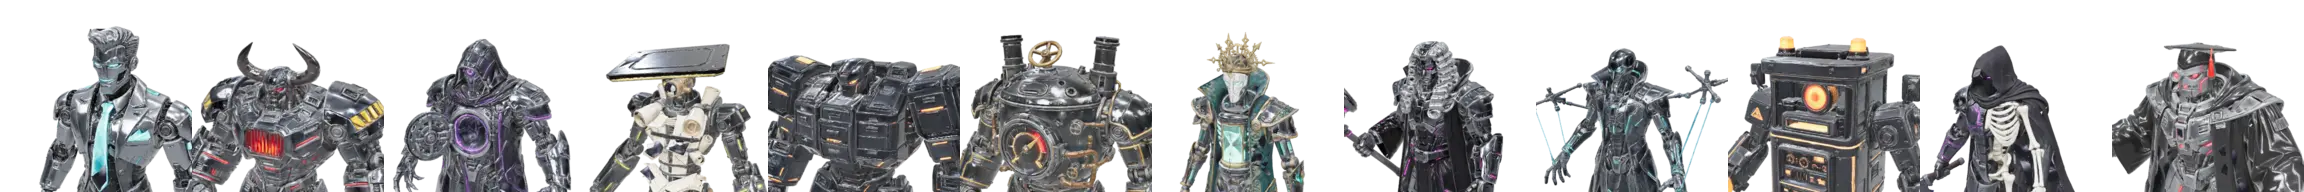
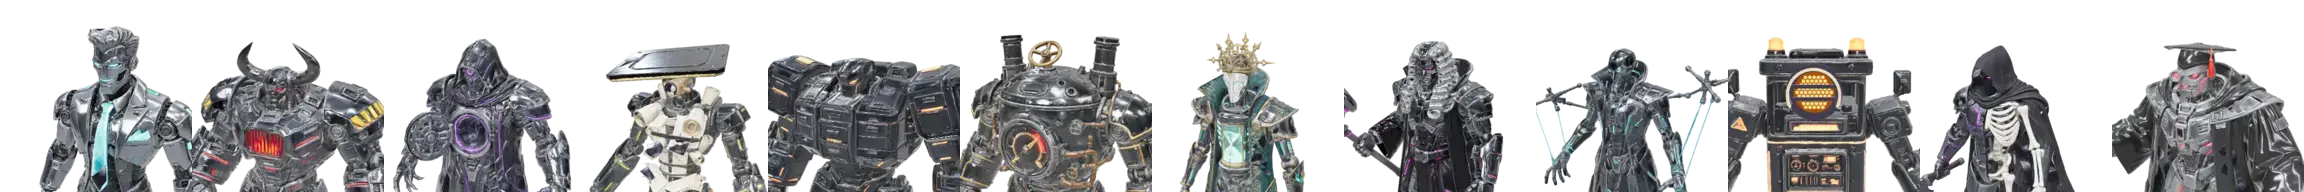
Boss portraits: the Tollgate's lamp drawn as the game's toll signal, not an eye
The portrait strip drew the raw model, whose round orange lamp reads as a single
eye. render.js gains --addon (a script run on the model before it is drawn); the
Tollgate's addon builds the game's own lane signal (22e-bosstollgate.js
makeSignal: a lens of small amber lamps under a hood with two guard bars) at the
model's eye anchor, and its cell is drawn from the front and spliced into
assets/ui/bosses.webp.

Claude-Session: https://claude.ai/code/session_01SXN4PWw2h7NprrScNwTTGU

Changed region(s): [[0.75, 0.1875, 0.8438, 1.0]]

diff --git a/arcade/tools/gen/render.js b/arcade/tools/gen/render.js
@@ -19,6 +19,8 @@ const anim = +flag("anim", 0), animView = flag("animview", "q");
 // --sprites out.webp: every model alone on a clear ground, one cell each, in one row (for UI icons and portraits);
 // --cell size, --view name, --focus x,y,z (shares of the model's box), --frame share, --names a,b,c (for the list beside it)
 const sprites = flag("sprites", null), cell = +flag("cell", 160), spriteView = flag("view", "hero"), focus = flag("focus", null), frame = +flag("frame", 1), spriteNames = flag("names", null);
+// --addon file.js: a script (under arcade/) that defines window.addon(root), run on each model before it is drawn
+const addonFile = flag("addon", null), addon = addonFile ? "/" + path.relative(path.join(__dirname, "..", ".."), path.resolve(addonFile)).split(path.sep).join("/") : undefined;
 const out = flag("out", "sheet.jpg"), size = +flag("size", 420), statsFile = flag("stats", null), views = flag("views", null), exposure = +flag("exposure", 1), emissiveBoost = +flag("emissive", 0), zoom = +flag("zoom", 0.6), envI = flag("envi", undefined) === undefined ? undefined : +flag("envi", 1), bg = flag("bg", undefined) === undefined ? undefined : parseInt(flag("bg", "0"), 16), norot = flag("norot", null) !== null;
 const files = args.map((f) => path.resolve(f));
 const ARCADE = path.join(__dirname, "..", "..");
@@ -51,7 +53,7 @@ function serve() {
     const cells = [], names = spriteNames ? spriteNames.split(",") : files.map((f) => path.basename(f).replace(/\.glb$/, ""));
     for (const f of files) {
       // (drawn at twice the cell and brought down: smooth edges on a clear ground)
-      await page.evaluate(([u, o]) => window.show(u, o), [base + "/abs" + f, { size: cell * 2, views: [spriteView], alpha: true, exposure, emissiveBoost, zoom, envI, focus: focus ? focus.split(",").map(Number) : null, frame, rotY: /\.tripo/.test(f) && !norot ? -Math.PI / 2 : 0 }]);
+      await page.evaluate(([u, o]) => window.show(u, o), [base + "/abs" + f, { size: cell * 2, views: [spriteView], alpha: true, addon, exposure, emissiveBoost, zoom, envI, focus: focus ? focus.split(",").map(Number) : null, frame, rotY: /\.tripo/.test(f) && !norot ? -Math.PI / 2 : 0 }]);
       await page.waitForTimeout(150);
       const png = path.join(tmp, cells.length + ".png");
       await page.locator("#c").screenshot({ path: png, omitBackground: true });
@@ -67,7 +69,7 @@ function serve() {
   for (const f of files) {
     const name = path.basename(f).replace(/\.glb$/, "");
     try {
-      const st = await page.evaluate(([u, o]) => window.show(u, o), [base + "/abs" + f, Object.assign({ size, exposure, emissiveBoost, zoom, envI, bg, rotY: /\.tripo/.test(name) && !norot ? -Math.PI / 2 : 0 }, anim ? { views: new Array(anim).fill(animView) } : views ? { views: views.split(",") } : {})]);
+      const st = await page.evaluate(([u, o]) => window.show(u, o), [base + "/abs" + f, Object.assign({ size, exposure, emissiveBoost, zoom, envI, bg, addon, rotY: /\.tripo/.test(name) && !norot ? -Math.PI / 2 : 0 }, anim ? { views: new Array(anim).fill(animView) } : views ? { views: views.split(",") } : {})]);
       if (anim) {
         // --anim N: one row per clip, N tiles sampled across it
         for (let ci = 0; ci < (st.animations || []).length; ci++) {

diff --git a/arcade/tools/gen/addons/tollgate-signal.js b/arcade/tools/gen/addons/tollgate-signal.js
@@ -1,0 +1,21 @@
+// A render.js addon (--addon tools/gen/addons/tollgate-signal.js): the Probate Tollgate's lane signal, built by the
+// game's own code (src/js/22e-bosstollgate.js, makeSignal) and lit as it is at rest (an amber lens, an orange hood
+// edge), so the boss's portrait shows the toll signal the game shows and not the bare round lamp the model came with.
+window.addon = async function (root) {
+  if (typeof BossTollgate === "undefined") await new Promise((res, rej) => { const s = document.createElement("script"); s.src = "/src/js/22e-bosstollgate.js"; s.onload = res; s.onerror = rej; document.head.appendChild(s); });
+  // (the game's soft halo sprite is left out: a still portrait has no bloom for it to feed)
+  window.glowSprite = () => { const o = new THREE.Object3D(); o.material = { color: new THREE.Color(), opacity: 0, dispose() {} }; return o; };
+  // (the model's anchors are notes on its root, as the game reads them in rigModel: a point in the model's own space)
+  let inr = root.userData && root.userData.inr;
+  root.traverse((o) => { if (!inr && o.userData && o.userData.inr) inr = o.userData.inr; });
+  const at = inr && inr.anchors && inr.anchors.eye;
+  if (!at) throw new Error("no eye anchor in this model's notes");
+  const eye = new THREE.Object3D();
+  root.updateWorldMatrix(true, false);
+  eye.position.copy(root.worldToLocal(new THREE.Vector3().fromArray(at)));
+  root.add(eye);
+  const sig = {};
+  BossTollgate.prototype.makeSignal.call(sig, eye, 1, 0xff9b3d); // (the render page's room light is brighter than the arena's: a lower reflection keeps the hood gunmetal)
+  sig.lensMat.color.setRGB(1, 0.52, 0.07).multiplyScalar(2.1);
+  sig.rimMat.color.set(0xff9b3d).multiplyScalar(1.5);
+};

diff --git a/arcade/tools/gen/render.html b/arcade/tools/gen/render.html
@@ -34,6 +34,11 @@ async function show(url, o = {}) {
   const gltf = await new Promise((res, rej) => loader.load(url, res, undefined, rej));
   const root = gltf.scene;
   if (o.rotY) root.rotation.y = o.rotY;
+  // o.addon: a script that defines window.addon(root), loaded once, run on the model before it is framed
+  if (o.addon) {
+    if (!window.addon) await new Promise((res, rej) => { const sc = document.createElement("script"); sc.src = o.addon; sc.onload = res; sc.onerror = () => rej(new Error("addon did not load: " + o.addon)); document.head.appendChild(sc); });
+    await window.addon(root);
+  }
   scene.add(root);
   root.updateMatrixWorld(true);
   const box = new THREE.Box3().setFromObject(root), c = box.getCenter(new THREE.Vector3()), s = box.getSize(new THREE.Vector3());
